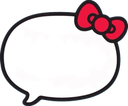
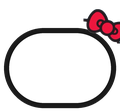
KittyTalk: clean ellipse chat bubbles, matched sender/receiver
The real bubble image is an irregular hand-drawn blob, so 9-slicing it made the
outline lumpy and stretched unevenly. Replace the bubble body with a clean
rounded-ellipse (stadium) shape -- white, thick black outline -- that 9-slices
perfectly at any width, and keep the real cropped bow on the top-right corner.
Sender and receiver now share the identical shape; only the bow colour differs
(red vs burgundy), per the brief.

Claude-Session: https://claude.ai/code/session_01H5x3KsEfx6WC5o15nfSsWE

Changed region(s): [[0.0, 0.0, 1.0, 1.0]]

diff --git a/themes/kittytalk/scripts/generate_images.py b/themes/kittytalk/scripts/generate_images.py
@@ -149,50 +149,66 @@ def fit(img, w, h, scale=1.0):
 
 
 # ===========================================================================
-# Chat bubbles (real artwork, 9-slice; cap measured from the bow/tail)
+# Chat bubbles -- a clean rounded-ellipse body (white, thick black outline) with
+# the REAL bow on the top corner.  Both bubbles use the IDENTICAL shape, so the
+# sender/receiver geometry matches exactly; only the bow (colour + side) differs.
+# Shipped as 9-slice; the cap contains the bow + the corner radius, so nothing
+# distorts when KakaoTalk stretches the middle to fit the text.
 # ===========================================================================
 print("bubbles...")
-# Canonical bubble size (@3x). Receiver = real bubble; sender = mirrored + burgundy.
-BUB3_W = 192
-scale3 = BUB3_W / BUBBLE.width
-BUB3_H = int(BUBBLE.height * scale3)
-recv3 = BUBBLE.resize((BUB3_W, BUB3_H), Image.LANCZOS)
-send_src = recolor_red_to(BUBBLE, BURGUNDY).transpose(Image.FLIP_LEFT_RIGHT)
-send3 = send_src.resize((BUB3_W, BUB3_H), Image.LANCZOS)
+DS = 12
+BUB_W, BUB_H = 60, 56          # 1x points (wider than tall -> elliptical)
+BODY_TOP = 14                  # 1x; headroom above the body for the bow
+OUTLINE_C = (26, 26, 26)       # matches the bow's black outline
 
-# Measure the bow's bounding box, so the 9-slice cap fully contains it and the
-# bow never distorts when KakaoTalk stretches the bubble's middle.
-_p = BUBBLE.load()
-bminx, bminy, bmaxx, bmaxy = BUBBLE.width, BUBBLE.height, 0, 0
-for y in range(BUBBLE.height):
-    for x in range(BUBBLE.width):
-        r, g, b, a = _p[x, y]
-        if a > 120 and r > 150 and g < 120 and b < 120:
-            bminx = min(bminx, x); bmaxx = max(bmaxx, x)
-            bminy = min(bminy, y); bmaxy = max(bmaxy, y)
-# right cap must reach the bow's left edge; top cap must reach the bow's bottom.
-cap_x_frac = min(0.46, (BUBBLE.width - bminx) / BUBBLE.width + 0.03)
-cap_y_frac = min(0.46, bmaxy / BUBBLE.height + 0.03)
-CAP1X = max(14, int(cap_x_frac * BUB3_W / 3))   # 1x px for the CSS
-CAP1Y = max(14, int(cap_y_frac * BUB3_H / 3))
+def _bubble_master(bow_img, body_fill):
+    W, H = BUB_W * DS, BUB_H * DS
+    im = Image.new("RGBA", (W, H), (0, 0, 0, 0))
+    d = ImageDraw.Draw(im)
+    lw = int(2.6 * DS)
+    body = [2 * DS, BODY_TOP * DS, W - 2 * DS, H - 2 * DS]
+    radius = (body[3] - body[1]) // 2          # half-height -> smooth ellipse ends
+    d.rounded_rectangle(body, radius=radius, fill=body_fill,
+                        outline=OUTLINE_C, width=lw)
+    bow = bow_img.copy()
+    bow.thumbnail((int(22 * DS), int(22 * DS)), Image.LANCZOS)
+    bx = (W - 2 * DS) - int(bow.width * 0.74)
+    by = BODY_TOP * DS - int(bow.height * 0.55)
+    im.alpha_composite(bow, (bx, by))
+    return im, (bx, by + bow.height)
 
-def write_bubble(prefix, art3):
-    two = art3.resize((BUB3_W * 2 // 3, BUB3_H * 2 // 3), Image.LANCZOS)
-    sel = Image.eval(art3, lambda v: v)  # placeholder (kept identical alpha)
-    # selected = same art on a faint gray plate so a pressed bubble reads
-    plate = Image.new("RGBA", art3.size, (0, 0, 0, 0))
-    selected3 = Image.alpha_composite(plate, art3)
-    sel2 = selected3.resize(two.size, Image.LANCZOS)
+recv_m, (rbx, rby) = _bubble_master(BOW, WHITE)
+recv_sel_m, _ = _bubble_master(BOW, (244, 244, 244))
+# sender = exactly the same shape + bow position, only the bow colour differs
+send_m, _ = _bubble_master(BOW_BURG, WHITE)
+send_sel_m, _ = _bubble_master(BOW_BURG, (244, 244, 244))
+
+# cap (1x): cover the bow (horizontally + vertically) and the corner radius
+RADIUS1 = (BUB_H - BODY_TOP - 2) // 2
+CAP1X = max(RADIUS1 + 2, int((BUB_W * DS - rbx) / DS) + 1)
+CAP1Y = max(RADIUS1 + 2, int(rby / DS) + 1)
+
+def write_bubble(prefix, master, sel_master):
+    two = (BUB_W * 2, BUB_H * 2)
+    three = (BUB_W * 3, BUB_H * 3)
+    n2 = master.resize(two, Image.LANCZOS)
+    n3 = master.resize(three, Image.LANCZOS)
+    s2 = sel_master.resize(two, Image.LANCZOS)
+    s3 = sel_master.resize(three, Image.LANCZOS)
     for v in ("01", "02"):
-        save_img(two, f"{prefix}{v}.png")
-        save_img(two, f"{prefix}{v}@2x.png")
-        save_img(art3, f"{prefix}{v}@3x.png")
-        save_img(sel2, f"{prefix}{v}Selected.png")
-        save_img(sel2, f"{prefix}{v}Selected@2x.png")
-        save_img(selected3, f"{prefix}{v}Selected@3x.png")
+        save_img(n2, f"{prefix}{v}.png")
+        save_img(n2, f"{prefix}{v}@2x.png")
+        save_img(n3, f"{prefix}{v}@3x.png")
+        save_img(s2, f"{prefix}{v}Selected.png")
+        save_img(s2, f"{prefix}{v}Selected@2x.png")
+        save_img(s3, f"{prefix}{v}Selected@3x.png")
 
-write_bubble("chatroomBubbleReceive", recv3)
-write_bubble("chatroomBubbleSend", send3)
+write_bubble("chatroomBubbleReceive", recv_m, recv_sel_m)
+write_bubble("chatroomBubbleSend", send_m, send_sel_m)
+
+# @3x art for the preview / stretch-proof below
+recv3 = recv_m.resize((BUB_W * 3, BUB_H * 3), Image.LANCZOS)
+send3 = send_m.resize((BUB_W * 3, BUB_H * 3), Image.LANCZOS)
 
 
 # ===========================================================================
@@ -357,7 +373,7 @@ cap3y = int(CAP1Y * 3)
 
 # (a) stretch proof
 verify = Image.new("RGBA", (820, 300), WHITE + (255,))
-for i, (w, h) in enumerate([(BUB3_W, BUB3_H), (260, BUB3_H), (260, 150), (150, 150)]):
+for i, (w, h) in enumerate([(recv3.width, recv3.height), (260, recv3.height), (260, 150), (150, 150)]):
     verify.alpha_composite(nine_slice(recv3, cap3x, cap3y, w, h), (12 + i * 200, 20))
 verify.convert("RGB").save(os.path.join(PREV, "verify_stretch.png"))
 
